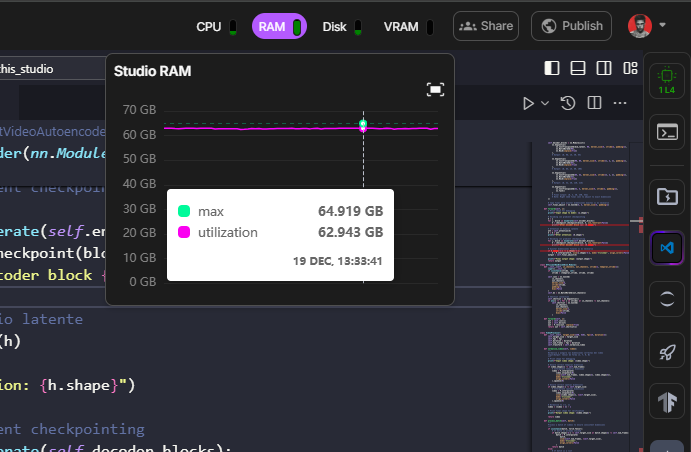
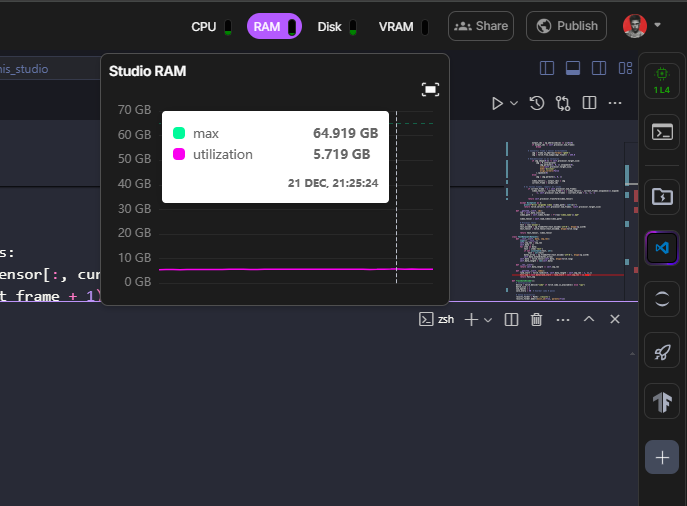
Frame streaming to avoid RAM memory saturation

diff --git a/Test/VideoAutoencoderTest.py b/Test/VideoAutoencoderTest.py
@@ -235,63 +235,65 @@ class VideoDataset(Dataset):
     def load_video(self, video_path):
         try:
             import av
-            container = av.open(str(video_path))
-            stream = container.streams.video[0]
+            with av.open(str(video_path)) as container:  # Usar context manager
+                stream = container.streams.video[0]
             
-            # Obtener todos los frames primero
-            frames = []
-            for frame in container.decode(video=0):
-                frames.append(frame)
+            # Contar frames primero sin guardarlos
+                total_frames = stream.frames
+                if total_frames == 0:
+                # Si no podemos obtener el conteo directamente, contamos manualmente
+                    total_frames = sum(1 for _ in container.decode(video=0))
+                    container.seek(0)  # Regresar al inicio
             
-            total_frames = len(frames)
-            if total_frames == 0:
-                raise ValueError("No frames found in video")
+
+                if total_frames == 0:
+                    raise ValueError("No frames found in video")
                 
             # Calcular índices para muestreo uniforme
-            if total_frames >= self.processor.num_frames:
-                indices = np.linspace(0, total_frames-1, self.processor.num_frames, dtype=int)
-            else:
-                indices = np.arange(total_frames)
-                
-            # Crear tensor de salida
-            video_tensor = torch.zeros(3, self.processor.num_frames, *self.processor.target_size)
-            
-            # Procesar frames seleccionados
-            for i, idx in enumerate(indices):
-                if i >= self.processor.num_frames:
-                    break
-                    
-                if idx >= len(frames):
-                    # Usar último frame si nos pasamos
-                    img = frames[-1].to_ndarray(format='rgb24')
+                if total_frames >= self.processor.num_frames:
+                    indices = np.linspace(0, total_frames-1, self.processor.num_frames, dtype=int)
                 else:
-                    img = frames[idx].to_ndarray(format='rgb24')
+                    indices = np.arange(total_frames)
+            
+            # Crear tensor de salida
+                video_tensor = torch.zeros(3, self.processor.num_frames, *self.processor.target_size)
+            
+            # Procesar frames uno por uno
+                current_frame = 0
+                for i, frame in enumerate(container.decode(video=0)):
+                    if i not in indices:
+                        continue
+                    
+                # Procesar solo los frames que necesitamos
+                    output_idx = np.where(indices == i)[0][0]
+                    if output_idx >= self.processor.num_frames:
+                        break
                 
-                # Convertir a tensor y normalizar
-                img = torch.from_numpy(img).float() / 255.0
+                # Convertir frame a tensor directamente
+                    img = frame.to_ndarray(format='rgb24')
+                    img = torch.from_numpy(img).float() / 255.0
                 
                 # Redimensionar si es necesario
-                if img.shape[0:2] != self.processor.target_size:
-                    img = F.interpolate(
-                        img.permute(2, 0, 1).unsqueeze(0),
-                        size=self.processor.target_size,
-                        mode='bilinear',
-                        align_corners=False
-                    ).squeeze(0)
-                else:
-                    img = img.permute(2, 0, 1)
+                    if img.shape[0:2] != self.processor.target_size:
+                        img = F.interpolate(
+                            img.permute(2, 0, 1).unsqueeze(0),
+                            size=self.processor.target_size,
+                            mode='bilinear',
+                            align_corners=False
+                        ).squeeze(0)
+                    else:
+                        img = img.permute(2, 0, 1)
                 
-                video_tensor[:, i] = img
+                    video_tensor[:, output_idx] = img
+                    current_frame = output_idx
             
             # Si faltan frames, repetir el último
-            if len(indices) < self.processor.num_frames:
-                video_tensor[:, len(indices):] = video_tensor[:, -1].unsqueeze(1).expand(-1, self.processor.num_frames - len(indices), -1, -1)
+                if current_frame + 1 < self.processor.num_frames:
+                    video_tensor[:, current_frame+1:] = video_tensor[:, current_frame].unsqueeze(1).expand(
+                        -1, self.processor.num_frames - (current_frame + 1), -1, -1
+                    )
             
-            # Liberar memoria
-            del frames
-            container.close()
-            
-            return self.processor.transform(video_tensor)
+                return self.processor.transform(video_tensor)
             
         except Exception as e:
             print(f"Error cargando video {video_path}: {str(e)}")
@@ -440,7 +442,7 @@ def combine_frames_to_video(frames_dir, output_path, fps=30):
 def train():
     # Configuración
     device = torch.device("cuda" if torch.cuda.is_available() else "cpu")
-    batch_size = 2
+    batch_size = 1
     num_epochs = 100
     save_every = 500  # Guardar cada N pasos
     
